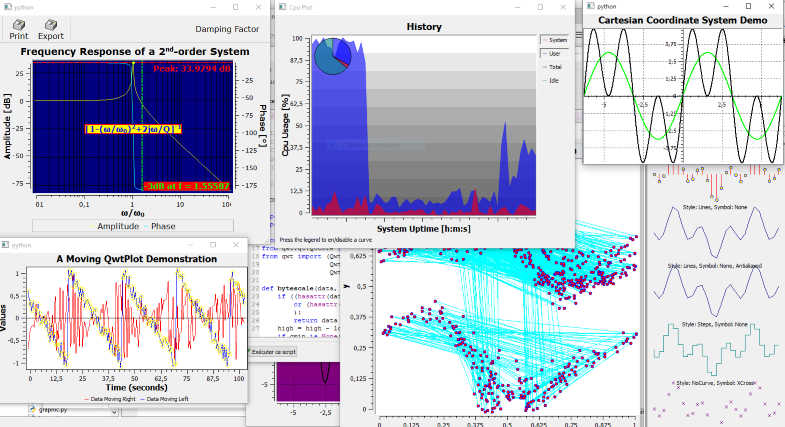
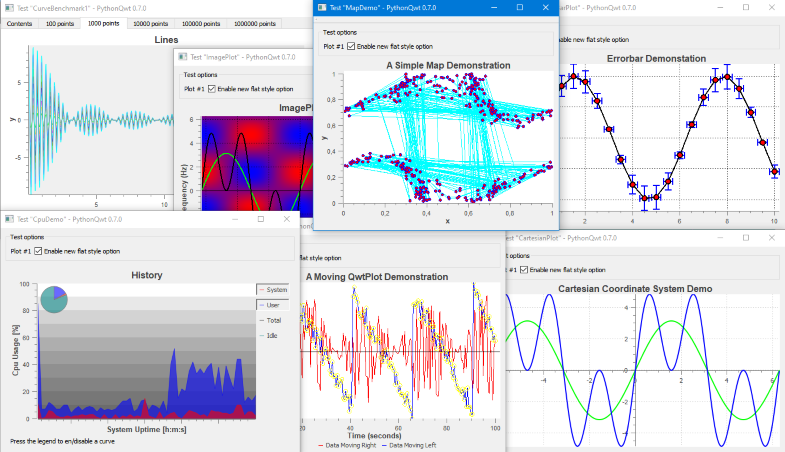
Updated panorama, test screenshots and modified some tests (rewrote simple test)

diff --git a/qwt/tests/simple.py b/qwt/tests/simple.py
@@ -10,47 +10,48 @@ SHOW = True  # Show test in GUI-based test launcher
 
 import numpy as np
 
-from qwt.qt.QtGui import QPen
 from qwt.qt.QtCore import Qt
-from qwt import QwtPlot, QwtPlotMarker, QwtLegend, QwtPlotCurve, QwtText
+import qwt
 
 
-class SimplePlot(QwtPlot):
+class SimplePlot(qwt.QwtPlot):
     def __init__(self):
-        QwtPlot.__init__(self)
-        self.setTitle("ReallySimpleDemo.py")
-        self.insertLegend(QwtLegend(), QwtPlot.RightLegend)
-        self.setAxisTitle(QwtPlot.xBottom, "X-axis")
-        self.setAxisTitle(QwtPlot.yLeft, "Y-axis")
+        qwt.QwtPlot.__init__(self)
+        self.setTitle("Really simple demo")
+        self.insertLegend(qwt.QwtLegend(), qwt.QwtPlot.RightLegend)
+        self.setAxisTitle(qwt.QwtPlot.xBottom, "X-axis")
+        self.setAxisTitle(qwt.QwtPlot.yLeft, "Y-axis")
         self.enableAxis(self.xBottom)
+        self.setCanvasBackground(Qt.white)
 
-        x = np.arange(0.0, 10.0, 0.1)
+        qwt.QwtPlotGrid.make(self, color=Qt.lightGray, width=0, style=Qt.DotLine)
 
         # insert a few curves
-        QwtPlotCurve.make(x, np.sin(x), "y = sin(x)", self, linecolor=Qt.red)
-        QwtPlotCurve.make(x, np.cos(x), "y = cos(x)", self, linecolor=Qt.blue)
+        x = np.arange(0.0, 10.0, 0.1)
+        qwt.QwtPlotCurve.make(x, np.sin(x), "y = sin(x)", self, linecolor="red")
+        qwt.QwtPlotCurve.make(x, np.cos(x), "y = cos(x)", self, linecolor="blue")
 
         # insert a horizontal marker at y = 0
-        QwtPlotMarker.make(
+        qwt.QwtPlotMarker.make(
             label="y = 0",
             align=Qt.AlignRight | Qt.AlignTop,
-            linestyle=QwtPlotMarker.HLine,
+            linestyle=qwt.QwtPlotMarker.HLine,
+            color="darkGreen",
             plot=self,
         )
 
         # insert a vertical marker at x = 2 pi
-        QwtPlotMarker.make(
+        qwt.QwtPlotMarker.make(
             xvalue=2 * np.pi,
             label="x = 2 pi",
             align=Qt.AlignRight | Qt.AlignTop,
-            linestyle=QwtPlotMarker.VLine,
+            linestyle=qwt.QwtPlotMarker.VLine,
+            color="darkGreen",
             plot=self,
         )
-
-        self.replot()
 
 
 if __name__ == "__main__":
     from qwt.tests import test_widget
 
-    app = test_widget(SimplePlot, size=(800, 500))
+    app = test_widget(SimplePlot, size=(600, 400))

diff --git a/qwt/tests/cartesian.py b/qwt/tests/cartesian.py
@@ -66,7 +66,7 @@ class CartesianPlot(QwtPlot):
         self.plotLayout().setCanvasMargin(0)
         self.plotLayout().setAlignCanvasToScales(True)
         # attach a grid
-        QwtPlotGrid.make(plot=self, color=Qt.lightGray, width=0, style=Qt.DotLine, z=-1)
+        QwtPlotGrid.make(self, color=Qt.lightGray, width=0, style=Qt.DotLine, z=-1)
         # attach a x-axis
         xaxis = CartesianAxis(QwtPlot.xBottom, QwtPlot.yLeft)
         xaxis.attach(self)

diff --git a/qwt/tests/mapdemo.py b/qwt/tests/mapdemo.py
@@ -68,10 +68,6 @@ class MapDemo(QMainWindow):
         self.killTimer(self.tid)
         self.tid = self.startTimer(ticks)
 
-    def resizeEvent(self, event):
-        self.plot.resize(event.size())
-        self.plot.move(0, 0)
-
     def moreData(self):
         if self.i == self.count:
             self.i = 0
